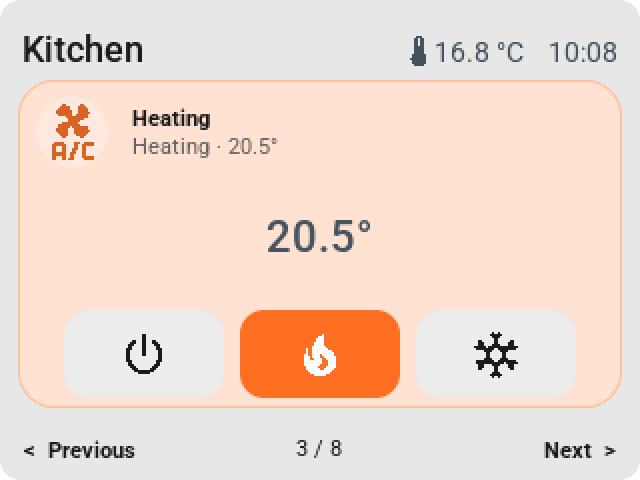
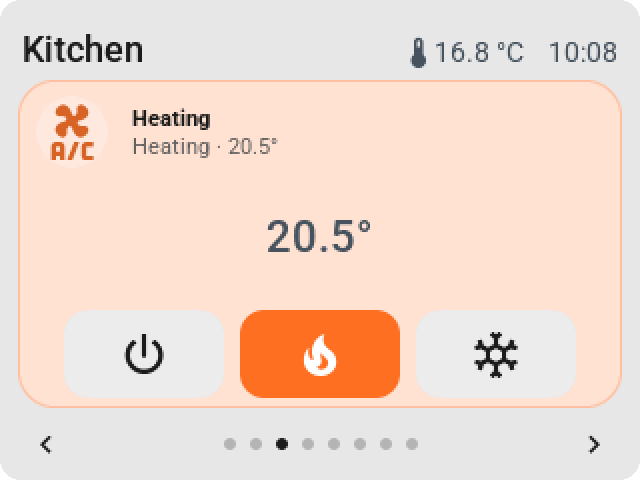
Show the new page buttons in the README pictures: chevrons and page dots under the tiles
The pictures of tile pages still had the Previous and Next words and the "1 / 4" counter from
before 0.2.82. The 26 pictures that show the bar are rendered again from firmware 0.2.69 with the
chevrons and page dots, and pick up the smoother icons of 0.2.75 on the way. The Screen group of
the settings page gained a Page buttons row and now has a second page, so its picture shows the
first page with the pager, and its description says where the page buttons and the rotation went.

Rendered from the host firmware and the real add-on on the same demo homes as the earlier pictures.

diff --git a/README.md b/README.md
@@ -80,7 +80,7 @@ also be changed on the screen or by an automation, and your own YAML for one scr
 </p>
 <p align="center"><sub>Dark mode, for a screen beside the bed: the same pages, darker. It is a switch on the screen, in ESP Screens and in Home Assistant, so an automation can turn it on at bedtime.</sub></p>
 <p align="center">
-  <img src="docs/images/guition-settings-screen.png" width="32%" alt="The settings page on the Guition, Screen: the 12 or 24-hour clock, back to page 1 by itself and after how long, also on standby, swiping between pages and the rotation">
+  <img src="docs/images/guition-settings-screen.png" width="32%" alt="The settings page on the Guition, Screen: the 12 or 24-hour clock, back to page 1 by itself and after how long, also on standby and swiping between pages, with the page buttons and the rotation on its second page">
   <img src="docs/images/guition-settings.png" width="32%" alt="The settings page on the Guition, Brightness: the brightness with minus and plus, Dark mode off, Auto standby on, standby after 10 minutes and the standby brightness">
   <img src="docs/images/guition-dark-settings.png" width="32%" alt="The same Brightness page right after turning Dark mode on: a black page with graphite rows and soft white text">
 </p>
